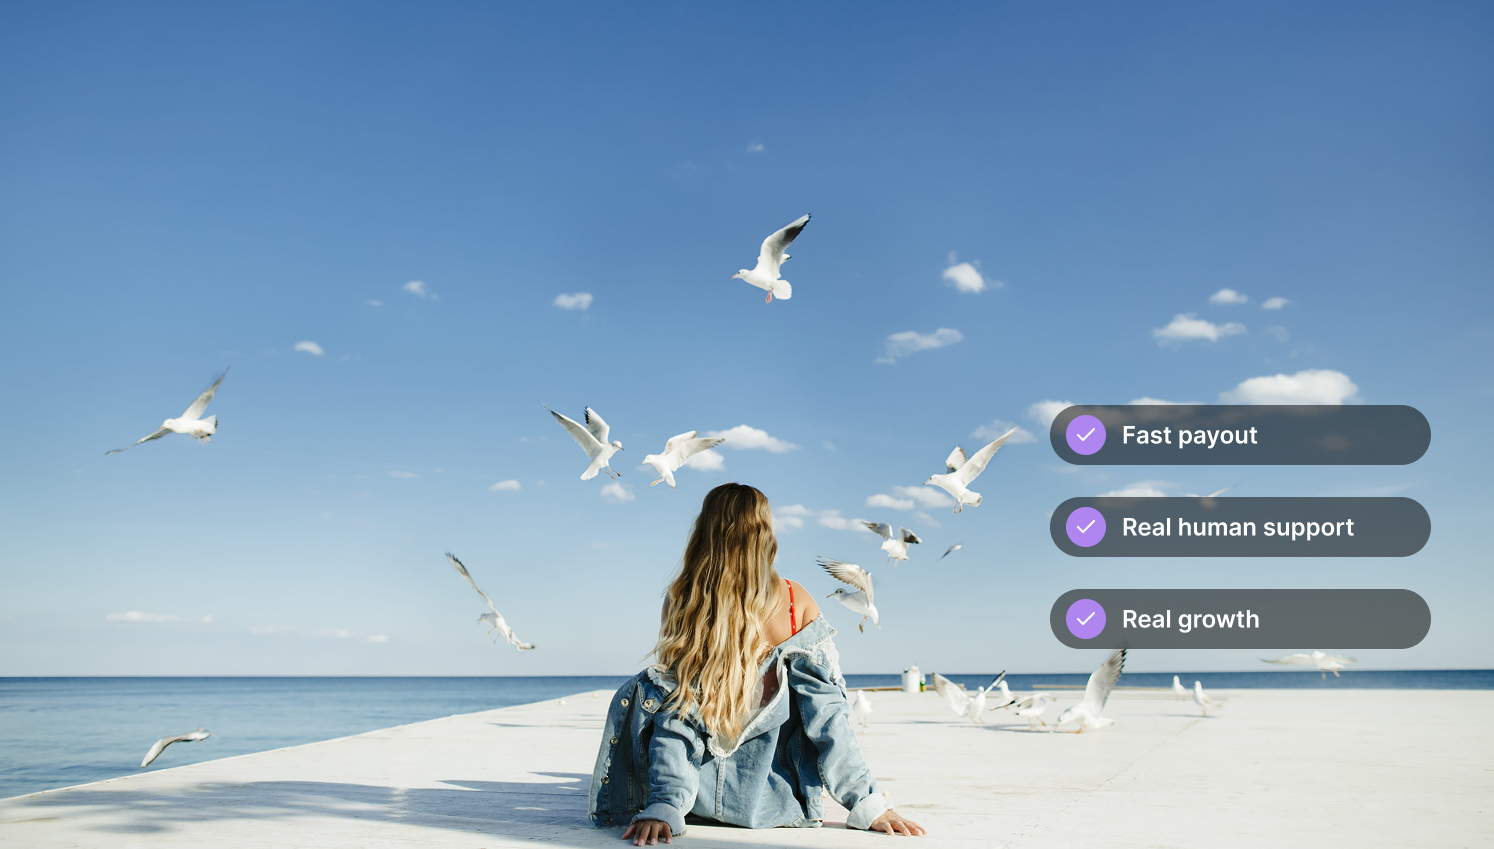
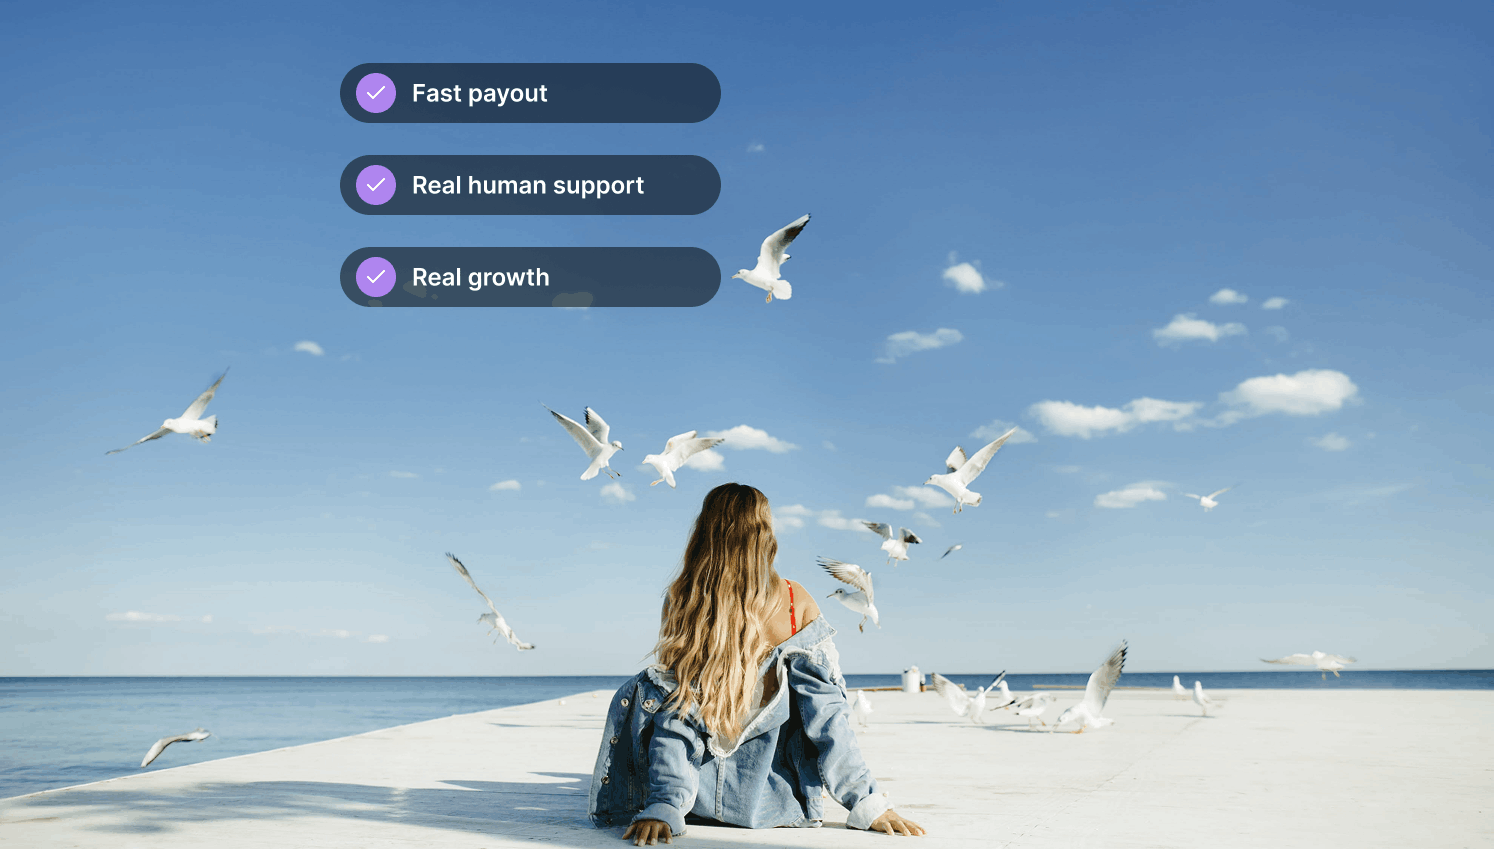
feat: add URL routing for shareable page links, update hero images

diff --git a/src/App.jsx b/src/App.jsx
@@ -1,4 +1,4 @@
-import { useState, useEffect } from "react";
+import { useState, useEffect, useCallback } from "react";
 import {
   Nav,
   HomePage,
@@ -15,30 +15,103 @@ import {
   ContactPage,
 } from "./pages";
 import { StickyBar } from "./components";
+import { ARTICLES } from "./data";
+
+// Map page keys to URL paths
+const PAGE_TO_PATH = {
+  home: "/",
+  hub: "/hub",
+  compare: "/compare",
+  "getting-started": "/getting-started",
+  earning: "/earning",
+  features: "/features",
+  events: "/events",
+  "free-creators": "/free-creators",
+  mission: "/mission",
+  contact: "/contact",
+};
+
+// Reverse: URL path to page key
+const PATH_TO_PAGE = {};
+Object.entries(PAGE_TO_PATH).forEach(([page, path]) => {
+  PATH_TO_PAGE[path] = page;
+});
+
+// Parse the current URL to determine initial page/article
+function parseURL() {
+  const path = window.location.pathname;
+
+  // Check for article routes: /article/<slug>
+  if (path.startsWith("/article/")) {
+    const slug = path.replace("/article/", "");
+    const article = ARTICLES.find((a) => a.slug === slug);
+    if (article) {
+      return { page: "article", article };
+    }
+    return { page: "home", article: null };
+  }
+
+  // Check known pages
+  const page = PATH_TO_PAGE[path];
+  if (page) {
+    return { page, article: null };
+  }
+
+  // Default to home
+  return { page: "home", article: null };
+}
 
 export default function App() {
+  const initial = parseURL();
   const [dark, setDark] = useState(true);
-  const [page, setPage] = useState("home");
-  const [article, setArticle] = useState(null);
+  const [page, setPage] = useState(initial.page);
+  const [article, setArticle] = useState(initial.article);
   const [selectedFeature, setSelectedFeature] = useState(null);
   const [selectedEvent, setSelectedEvent] = useState(null);
 
-  const handleNav = (p) => {
+  // Push URL when navigating to a page
+  const handleNav = useCallback((p) => {
     setPage(p);
     setArticle(null);
     setSelectedFeature(null);
     setSelectedEvent(null);
     window.scrollTo(0, 0);
-  };
 
-  const handleRead = (a) => {
+    const path = PAGE_TO_PATH[p] || "/";
+    if (window.location.pathname !== path) {
+      window.history.pushState({ page: p }, "", path);
+    }
+  }, []);
+
+  // Push URL when reading an article
+  const handleRead = useCallback((a) => {
     setArticle(a);
     setPage("article");
     window.scrollTo(0, 0);
-  };
-  const handleBack = () => {
+
+    const path = `/article/${a.slug}`;
+    if (window.location.pathname !== path) {
+      window.history.pushState({ page: "article", slug: a.slug }, "", path);
+    }
+  }, []);
+
+  const handleBack = useCallback(() => {
     handleNav("home");
-  };
+  }, [handleNav]);
+
+  // Handle browser back/forward buttons
+  useEffect(() => {
+    const onPopState = () => {
+      const { page: p, article: a } = parseURL();
+      setPage(p);
+      setArticle(a);
+      setSelectedFeature(null);
+      setSelectedEvent(null);
+      window.scrollTo(0, 0);
+    };
+    window.addEventListener("popstate", onPopState);
+    return () => window.removeEventListener("popstate", onPopState);
+  }, []);
 
   useEffect(() => {
     document.documentElement.setAttribute(

diff --git a/src/pages.jsx b/src/pages.jsx
@@ -1391,7 +1391,7 @@ export function HomePage({ dark, onRead, setPage }) {
                   }}
                 >
                   <img
-                    src="/assets/promotions/fortune_cookie.png"
+                    src="/assets/homepage/hero-26.png"
                     alt="Creator Habits"
                   />
                   <div className="hero-overlay">
@@ -1441,7 +1441,7 @@ export function HomePage({ dark, onRead, setPage }) {
                   onClick={() => setPage("free-creators")}
                 >
                   <img
-                    src="/assets/promotions/Free accounts.png"
+                    src="/assets/homepage/Free accounts.png"
                     alt="Free LuvlyFans Accounts"
                   />
                   <div className="hero-overlay-dark" />

diff --git a/src/home.css b/src/home.css
@@ -49,6 +49,7 @@
   grid-template-columns: 2fr 1fr;
   gap: 20px;
   margin-bottom: 48px;
+  grid-template-rows: 680px;
 }
 .hero-col {
   display: flex;
@@ -90,8 +91,9 @@
 /* Full height card for left column */
 .hero-card-full {
   flex: 1 !important;
-  height: auto !important;
+  height: 100% !important;
   min-height: 60px;
+  max-height: 680px;
 }
 .hero-card-bottom {
   flex: 0 0 auto;
@@ -412,9 +414,10 @@
     flex: 0 0 auto;
   }
   .hero-card-full {
-    flex: 1 !important;
-    height: auto !important;
-    min-height: 560px !important;
+    flex: 0 0 auto !important;
+    height: 380px !important;
+    min-height: 380px !important;
+    max-height: none !important;
   }
   .hero-overlay {
     padding: 24px;
